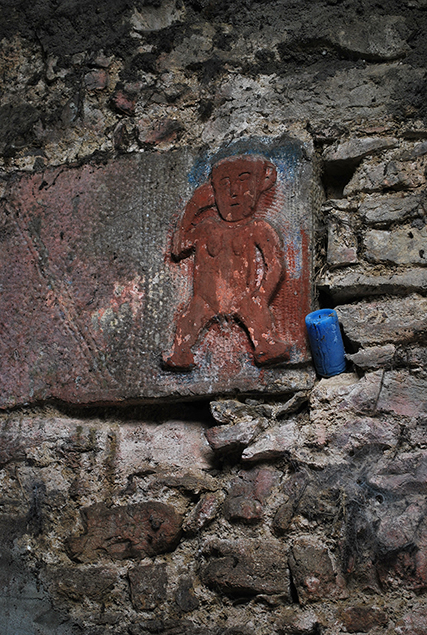
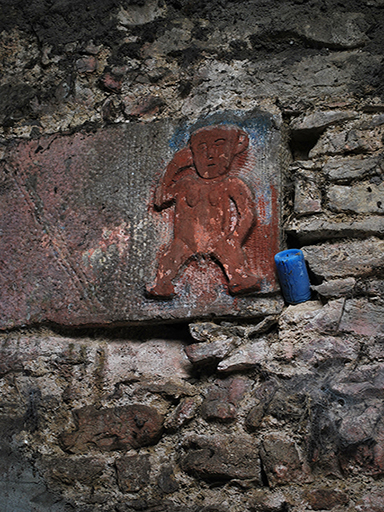
Changed Images

diff --git a/index.html b/index.html
@@ -186,12 +186,12 @@
                 <div class="col-lg-6 text-center">
                     <h3>Red Sheela</h3>
                     <hr>
-                    <img src="images/Red%20Sheela.jpg" class="img-responsive">
+                    <img src="images/DSC_0094.JPG" class="img-responsive center-block">
                 </div>
                 <div class="col-lg-6 text-center">
-                    <h3 align="center">Killinaboy Sheela</h3>
+                    <h3>Killinaboy Sheela</h3>
                     <hr>
-                    <img src="images/Kilnaboy-sheela-na-gig--768x1024.jpg" class="img-responsive">
+                    <img src="images/Kilnaboy-sheela-na-gig--768x1024.jpg" class="img-responsive center-block">
                 </div>
             </div>
             <div class="row">
